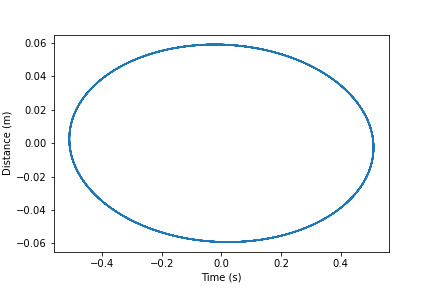
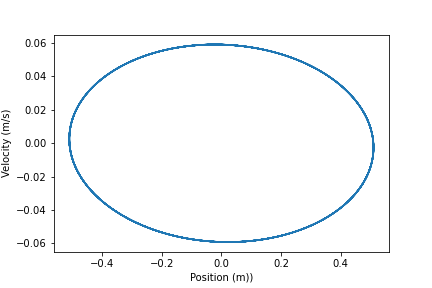
Fixed some units and titles

Changed region(s): [[0.4213, 0.9375, 0.6019, 1.0], [0.0, 0.375, 0.0301, 0.625]]

diff --git a/Spring Oscillation/SpringOscillation.py b/Spring Oscillation/SpringOscillation.py
@@ -65,27 +65,27 @@ for i in np.arange(0,len(bareY),1):
 pl.cla()
 pl.plot(bareXt,bareX, ".")
 pl.xlabel("Time (s)")
-pl.ylabel("Distance (m)")
+pl.ylabel("Position (m)")
 pl.savefig("Session 1 - MEASURED - Position over Time for Non-Damped Oscillation")
 pl.cla()
 pl.plot(bareXt,bareY)
 pl.xlabel("Time (s)")
-pl.ylabel("Distance (m)")
+pl.ylabel("Position (m)")
 pl.savefig("Session 1 - FORWARD - Position over Time for Non-Damped Oscillation")
 pl.cla()
 pl.plot(bareXt,bareVy)
 pl.xlabel("Time (s)")
-pl.ylabel("Distance (m)")
+pl.ylabel("Velocity (m/s)")
 pl.savefig("Session 1 - FORWARD -  Velocity over Time for Non-Damped Oscillation")
 pl.cla()
 pl.plot(bareVy,bareY)
-pl.xlabel("Time (s)")
-pl.ylabel("Distance (m)")
+pl.xlabel("Position (m)")
+pl.ylabel("Velocity (m/s)")
 pl.savefig("Session 1 - FORWARD - Velocity over Position for Non-Damped Oscillation")
 pl.cla()
 pl.plot(bareXt,bareEnergy)
 pl.xlabel("Time (s)")
-pl.ylabel("Distance (m)")
+pl.ylabel("Energy (J)")
 pl.savefig("Session 1 - FORWARD - Energy over Time for Non-Damped Oscillation")
 
 #Using Symplectic Euler Method to get Plottable Data
@@ -103,23 +103,23 @@ for i in np.arange(0,len(bareY)-1,1):
 pl.cla()
 pl.plot(bareXt,bareY)
 pl.xlabel("Time (s)")
-pl.ylabel("Distance (m)")
+pl.ylabel("Position (m)")
 pl.savefig("Session 1 - SYMPLECTIC - Position over Time for Non-Damped Oscillation")
 pl.cla()
 pl.plot(bareXt,bareVy)
 pl.xlabel("Time (s)")
-pl.ylabel("Distance (m)")
+pl.ylabel("Velocity (m/s)")
 pl.savefig("Session 1 - SYMPLECTIC -  Velocity over Time for Non-Damped Oscillation")
 pl.cla()
 pl.plot(bareVy,bareY)
-pl.xlabel("Time (s)")
-pl.ylabel("Distance (m)")
+pl.xlabel("Position (m))")
+pl.ylabel("Velocity (m/s)")
 pl.savefig("Session 1 - SYMPLECTIC - Velocity over Position for Non-Damped Oscillation")
 
 print("For the BARE MASS:")
 print("Angular frequency is ",round(bareOmega0,1)," +- ",uBareOmega0," s^-1")
 print("Amplitude is ",round(bareY0,4)," +- ", uBareY0, " m")
-print("Frequency is  ",round(bareFrequency,1)," +- ",uBareOmega0," Hz")
+print("Frequency is  ",round(bareFrequency,2)," +- ",uBareFrequency," Hz")
 print("Spring constant is ",round(bareK,0)," +- ",uBareK, " kg/s/s")
 
 #________________________________________________________
@@ -264,10 +264,10 @@ gamma = np.mean(gamma)
 
 
 
-print("For the BARE MASS:")
+print("For the DAMPED MASS:")
 print("Angular frequency is ",round(bareOmega0,1)," +- ",uBareOmega0," s^-1")
 print("Amplitude is ",round(bareY0,4)," +- ", uBareY0, " m")
-print("Frequency is  ",round(bareFrequency,1)," +- ",uBareOmega0," Hz")
+print("Frequency is  ",round(bareFrequency,2)," +- ",uBareOmega0," Hz")
 print("Spring constant is ",round(bareK,0)," +- ",uBareK, " kg/s/s")
 #rint("Gamma constant is ",round(gamma,20)," +- ",uGamma)
 
